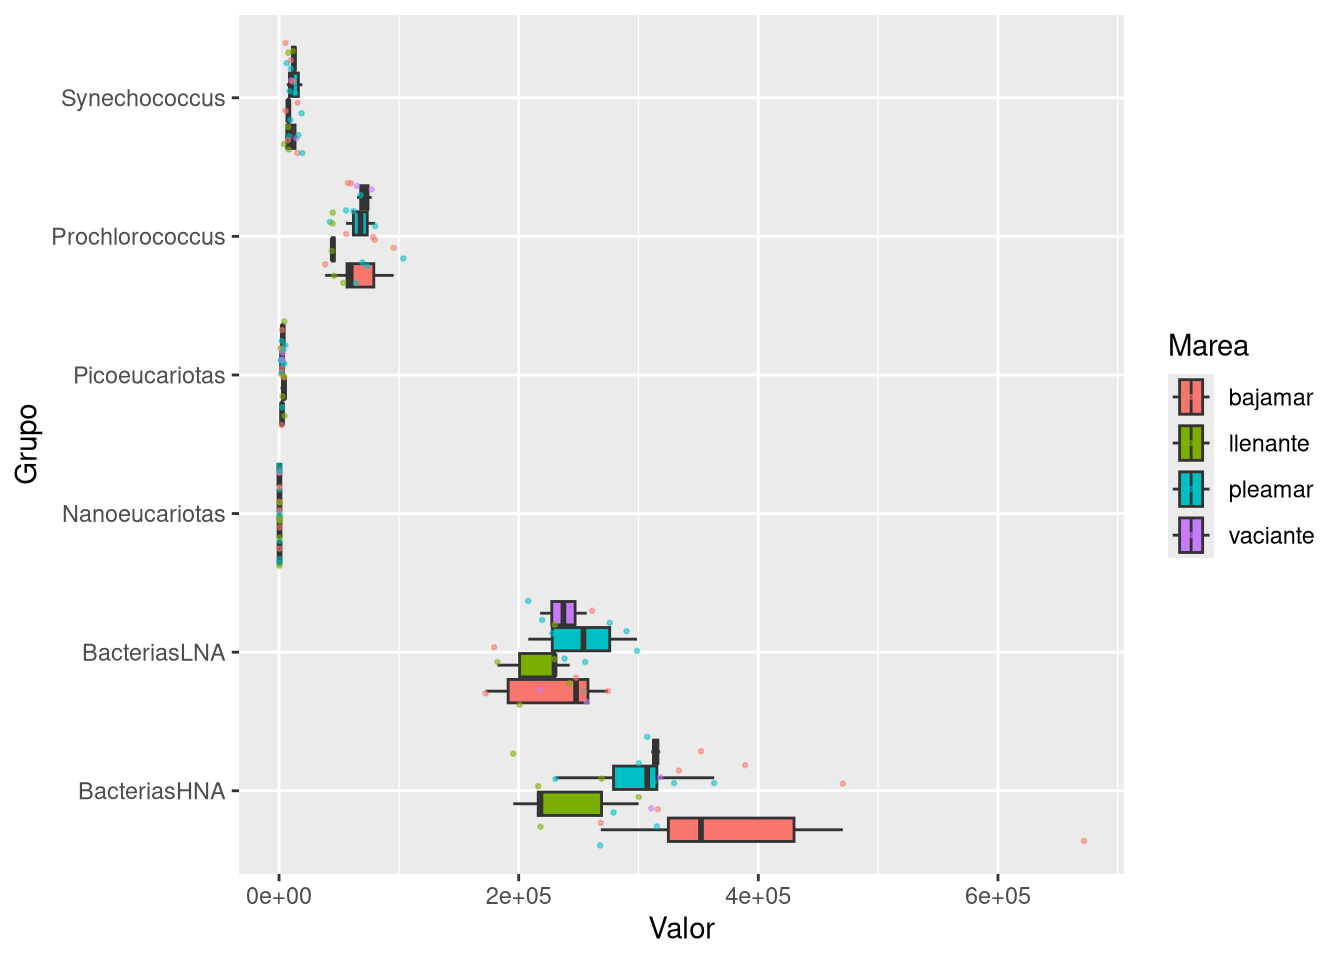
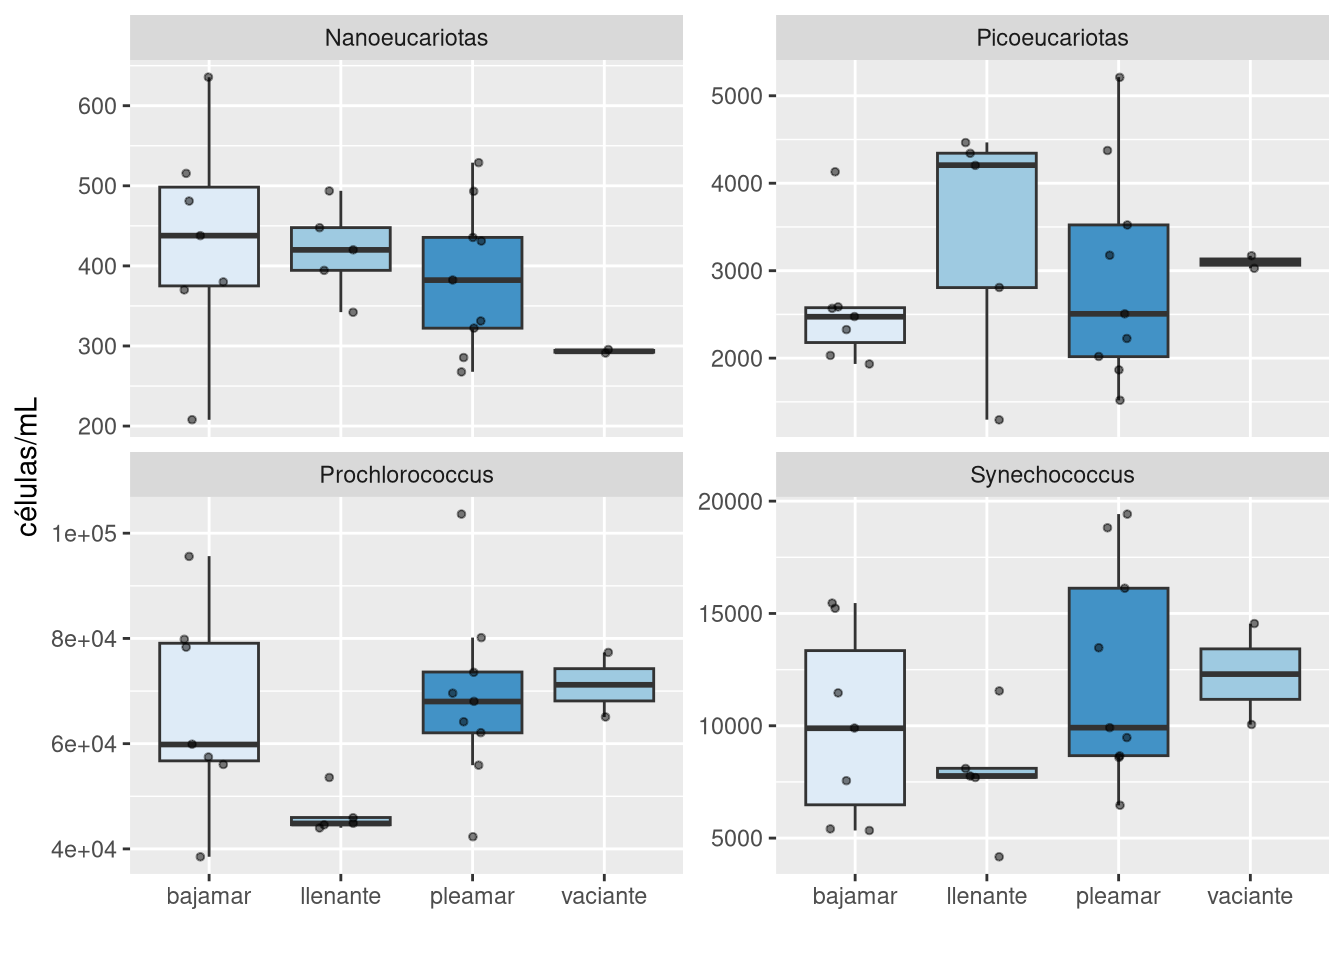
Añadido Vista general y Efecto de las mareas

diff --git a/docs/citometria.html b/docs/citometria.html
@@ -7,7 +7,7 @@
 <meta name="viewport" content="width=device-width, initial-scale=1.0, user-scalable=yes">
 
 
-<title>citometria – Calidad del agua en El Confital</title>
+<title>Citometría de flujo – Calidad del agua en El Confital</title>
 <style>
 code{white-space: pre-wrap;}
 span.smallcaps{font-variant: small-caps;}
@@ -20,7 +20,27 @@ ul.task-list li input[type="checkbox"] {
   margin: 0 0.8em 0.2em -1em; /* quarto-specific, see https://github.com/quarto-dev/quarto-cli/issues/4556 */ 
   vertical-align: middle;
 }
-</style>
+/* CSS for citations */
+div.csl-bib-body { }
+div.csl-entry {
+  clear: both;
+  margin-bottom: 0em;
+}
+.hanging-indent div.csl-entry {
+  margin-left:2em;
+  text-indent:-2em;
+}
+div.csl-left-margin {
+  min-width:2em;
+  float:left;
+}
+div.csl-right-inline {
+  margin-left:2em;
+  padding-left:1em;
+}
+div.csl-indent {
+  margin-left: 2em;
+}</style>
 
 
 <script src="site_libs/quarto-nav/quarto-nav.js"></script>
@@ -102,11 +122,11 @@ ul.task-list li input[type="checkbox"] {
     <ul class="dropdown-menu" aria-labelledby="nav-menu-resultados">    
         <li>
     <a class="dropdown-item" href="./indicadores.html">
- <span class="dropdown-text">Indicadores convencionales</span></a>
+ <span class="dropdown-text">Biondicadores convencionales</span></a>
   </li>  
         <li>
     <a class="dropdown-item" href="./citometria.html">
- <span class="dropdown-text">Citometría</span></a>
+ <span class="dropdown-text">Citometría de flujo</span></a>
   </li>  
     </ul>
   </li>
@@ -131,7 +151,7 @@ ul.task-list li input[type="checkbox"] {
       <button type="button" class="quarto-btn-toggle btn" data-bs-toggle="collapse" role="button" data-bs-target=".quarto-sidebar-collapse-item" aria-controls="quarto-sidebar" aria-expanded="false" aria-label="Alternar barra lateral" onclick="if (window.quartoToggleHeadroom) { window.quartoToggleHeadroom(); }">
         <i class="bi bi-layout-text-sidebar-reverse"></i>
       </button>
-        <nav class="quarto-page-breadcrumbs" aria-label="breadcrumb"><ol class="breadcrumb"><li class="breadcrumb-item"><a href="./citometria.html">Citometría</a></li></ol></nav>
+        <nav class="quarto-page-breadcrumbs" aria-label="breadcrumb"><ol class="breadcrumb"><li class="breadcrumb-item"><a href="./citometria.html">Citometría de flujo</a></li></ol></nav>
         <a class="flex-grow-1" role="navigation" data-bs-toggle="collapse" data-bs-target=".quarto-sidebar-collapse-item" aria-controls="quarto-sidebar" aria-expanded="false" aria-label="Alternar barra lateral" onclick="if (window.quartoToggleHeadroom) { window.quartoToggleHeadroom(); }">      
         </a>
     </div>
@@ -146,13 +166,13 @@ ul.task-list li input[type="checkbox"] {
         <li class="sidebar-item">
   <div class="sidebar-item-container"> 
   <a href="./indicadores.html" class="sidebar-item-text sidebar-link">
- <span class="menu-text">Indicadores convencionales</span></a>
+ <span class="menu-text">Biondicadores convencionales</span></a>
   </div>
 </li>
         <li class="sidebar-item">
   <div class="sidebar-item-container"> 
   <a href="./citometria.html" class="sidebar-item-text sidebar-link active">
- <span class="menu-text">Citometría</span></a>
+ <span class="menu-text">Citometría de flujo</span></a>
   </div>
 </li>
     </ul>
@@ -165,27 +185,43 @@ ul.task-list li input[type="checkbox"] {
     <h2 id="toc-title">En esta página</h2>
    
   <ul>
-  <li><a href="#citometría" id="toc-citometría" class="nav-link active" data-scroll-target="#citometría">Citometría</a></li>
+  <li><a href="#vista-general" id="toc-vista-general" class="nav-link active" data-scroll-target="#vista-general">Vista general</a></li>
+  <li><a href="#efecto-de-las-mareas" id="toc-efecto-de-las-mareas" class="nav-link" data-scroll-target="#efecto-de-las-mareas">Efecto de las mareas</a></li>
+  <li><a href="#comparativa-entre-el-confital-y-descarga-el-barranco-de-guanarteme" id="toc-comparativa-entre-el-confital-y-descarga-el-barranco-de-guanarteme" class="nav-link" data-scroll-target="#comparativa-entre-el-confital-y-descarga-el-barranco-de-guanarteme">Comparativa entre El Confital y descarga el Barranco de Guanarteme</a></li>
   </ul>
 </nav>
     </div>
 <!-- main -->
-<main class="content" id="quarto-document-content"><header id="title-block-header" class="quarto-title-block"></header>
+<main class="content" id="quarto-document-content">
 
-
-
-
-<section id="citometría" class="level1">
-<h1>Citometría</h1>
-<div class="cell">
-<div class="cell-output-display">
-<div>
-<figure class="figure">
-<p><img src="citometria_files/figure-html/visualize-1.png" class="img-fluid figure-img" width="672"></p>
-</figure>
+<header id="title-block-header" class="quarto-title-block default">
+<div class="quarto-title">
+<h1 class="title">Citometría de flujo</h1>
+<p class="subtitle lead">Concentración de microorganismos en el agua</p>
 </div>
-</div>
-</div>
+
+
+
+<div class="quarto-title-meta">
+
+    
+  
+    
+  </div>
+  
+
+
+</header>
+
+
+<section id="vista-general" class="level2">
+<h2 class="anchored" data-anchor-id="vista-general">Vista general</h2>
+<p>Monitoreamos 6 grupos de microorgansismos en base a 3 criterios funcionales:</p>
+<ul>
+<li><strong><em>Synechococcus</em></strong> y <strong><em>Prochlorococcus</em></strong>: son dos géneros de cianobacterias (anteriormente conocidas como algas verde-azuladas) identificadas en función de su pigmentación.</li>
+<li><strong>Nanoeucariotas</strong> y <strong>picoeucariotas</strong>: organismos diversos del dominio eucariota (células con núcleo verdadero) diferenciados en función de su tamaño, siendo <em>nano</em> más ancho que <em>pico</em>.</li>
+<li>Bacterias de <strong>alto ácido nucleico (HNA)</strong> y <strong>bajo ácido nucleico (LNA)</strong>: según el contenido de ácido nucleico en las células. En líneas generales, las bacterias HNA tiene un ritmo metabólico más acelerado que las HNA y son más adaptadas a entornos cambiantes. El ratio <strong>HNA/LNA</strong> se utiliza como indicador de alteraciones en el medio<span class="citation" data-cites="claveau2024"><sup><a href="#ref-claveau2024" role="doc-biblioref">1</a></sup></span>.</li>
+</ul>
 <div class="cell">
 <div class="cell-output-display">
 <div id="fig-distribucion" class="quarto-float quarto-figure quarto-figure-center anchored" width="672">
@@ -200,14 +236,18 @@ Figura&nbsp;1
 </div>
 </div>
 </div>
+<p>Observamos que la mayor variabilidad existe en función del contenido de ácido nucleico (<a href="#fig-distribucion" class="quarto-xref">Figura&nbsp;1</a>), seguido del grupo de <em>Prochlorococcus</em>. En las visualizaciones posteriores separaremos HNA y LNA del resto para una mejor resolución de las observaciones.</p>
+</section>
+<section id="efecto-de-las-mareas" class="level2">
+<h2 class="anchored" data-anchor-id="efecto-de-las-mareas">Efecto de las mareas</h2>
 <div class="cell">
 <div class="cell-output-display">
-<div id="fig-lugar" class="quarto-float quarto-figure quarto-figure-center anchored" width="672">
+<div id="fig-marea-bajos" class="quarto-float quarto-figure quarto-figure-center anchored" width="672">
 <figure class="quarto-float quarto-float-fig figure">
-<div aria-describedby="fig-lugar-caption-0ceaefa1-69ba-4598-a22c-09a6ac19f8ca">
-<img src="citometria_files/figure-html/fig-lugar-1.png" id="fig-lugar" class="img-fluid figure-img" width="672">
+<div aria-describedby="fig-marea-bajos-caption-0ceaefa1-69ba-4598-a22c-09a6ac19f8ca">
+<img src="citometria_files/figure-html/fig-marea-bajos-1.png" id="fig-marea-bajos" class="img-fluid figure-img" width="672">
 </div>
-<figcaption class="quarto-float-caption-bottom quarto-float-caption quarto-float-fig quarto-uncaptioned" id="fig-lugar-caption-0ceaefa1-69ba-4598-a22c-09a6ac19f8ca">
+<figcaption class="quarto-float-caption-bottom quarto-float-caption quarto-float-fig quarto-uncaptioned" id="fig-marea-bajos-caption-0ceaefa1-69ba-4598-a22c-09a6ac19f8ca">
 Figura&nbsp;2
 </figcaption>
 </figure>
@@ -216,13 +256,44 @@ Figura&nbsp;2
 </div>
 <div class="cell">
 <div class="cell-output-display">
-<div id="fig-marea" class="quarto-float quarto-figure quarto-figure-center anchored" width="672">
+<div id="fig-marea-altos" class="quarto-float quarto-figure quarto-figure-center anchored" width="672">
 <figure class="quarto-float quarto-float-fig figure">
-<div aria-describedby="fig-marea-caption-0ceaefa1-69ba-4598-a22c-09a6ac19f8ca">
-<img src="citometria_files/figure-html/fig-marea-1.png" id="fig-marea" class="img-fluid figure-img" width="672">
+<div aria-describedby="fig-marea-altos-caption-0ceaefa1-69ba-4598-a22c-09a6ac19f8ca">
+<img src="citometria_files/figure-html/fig-marea-altos-1.png" id="fig-marea-altos" class="img-fluid figure-img" width="672">
 </div>
-<figcaption class="quarto-float-caption-bottom quarto-float-caption quarto-float-fig quarto-uncaptioned" id="fig-marea-caption-0ceaefa1-69ba-4598-a22c-09a6ac19f8ca">
+<figcaption class="quarto-float-caption-bottom quarto-float-caption quarto-float-fig quarto-uncaptioned" id="fig-marea-altos-caption-0ceaefa1-69ba-4598-a22c-09a6ac19f8ca">
 Figura&nbsp;3
+</figcaption>
+</figure>
+</div>
+</div>
+</div>
+<div class="cell">
+<div class="cell-output-display">
+<div id="fig-marea-ratio" class="quarto-float quarto-figure quarto-figure-center anchored" width="672">
+<figure class="quarto-float quarto-float-fig figure">
+<div aria-describedby="fig-marea-ratio-caption-0ceaefa1-69ba-4598-a22c-09a6ac19f8ca">
+<img src="citometria_files/figure-html/fig-marea-ratio-1.png" id="fig-marea-ratio" class="img-fluid figure-img" width="672">
+</div>
+<figcaption class="quarto-float-caption-bottom quarto-float-caption quarto-float-fig quarto-uncaptioned" id="fig-marea-ratio-caption-0ceaefa1-69ba-4598-a22c-09a6ac19f8ca">
+Figura&nbsp;4
+</figcaption>
+</figure>
+</div>
+</div>
+</div>
+</section>
+<section id="comparativa-entre-el-confital-y-descarga-el-barranco-de-guanarteme" class="level1">
+<h1>Comparativa entre El Confital y descarga el Barranco de Guanarteme</h1>
+<div class="cell">
+<div class="cell-output-display">
+<div id="fig-lugar" class="quarto-float quarto-figure quarto-figure-center anchored" width="672">
+<figure class="quarto-float quarto-float-fig figure">
+<div aria-describedby="fig-lugar-caption-0ceaefa1-69ba-4598-a22c-09a6ac19f8ca">
+<img src="citometria_files/figure-html/fig-lugar-1.png" id="fig-lugar" class="img-fluid figure-img" width="672">
+</div>
+<figcaption class="quarto-float-caption-bottom quarto-float-caption quarto-float-fig quarto-uncaptioned" id="fig-lugar-caption-0ceaefa1-69ba-4598-a22c-09a6ac19f8ca">
+Figura&nbsp;5
 </figcaption>
 </figure>
 </div>
@@ -230,9 +301,14 @@ Figura&nbsp;3
 </div>
 
 
+
 </section>
 
-</main> <!-- /main -->
+<div id="quarto-appendix" class="default"><section class="quarto-appendix-contents" role="doc-bibliography" id="quarto-bibliography"><h2 class="anchored quarto-appendix-heading">Referencias</h2><div id="refs" class="references csl-bib-body" data-entry-spacing="0" data-line-spacing="2" role="list">
+<div id="ref-claveau2024" class="csl-entry" role="listitem">
+<div class="csl-left-margin">1. </div><div class="csl-right-inline">Claveau, L., Hudson, N., Jeffrey, P., &amp; Hassard, F. (2024). Assessing microbial growth in drinking water using nucleic acid content and flow cytometry fingerprinting. <em>iScience</em>, <em>27</em>(12), 111511. <a href="https://doi.org/10.1016/j.isci.2024.111511">https://doi.org/10.1016/j.isci.2024.111511</a></div>
+</div>
+</div></section></div></main> <!-- /main -->
 <script id="quarto-html-after-body" type="application/javascript">
   window.document.addEventListener("DOMContentLoaded", function (event) {
     const icon = "";

diff --git a/docs/indicadores.html b/docs/indicadores.html
@@ -7,7 +7,7 @@
 <meta name="viewport" content="width=device-width, initial-scale=1.0, user-scalable=yes">
 
 
-<title>Indicadores convencionales – Calidad del agua en El Confital</title>
+<title>Biondicadores convencionales – Calidad del agua en El Confital</title>
 <style>
 code{white-space: pre-wrap;}
 span.smallcaps{font-variant: small-caps;}
@@ -102,11 +102,11 @@ ul.task-list li input[type="checkbox"] {
     <ul class="dropdown-menu" aria-labelledby="nav-menu-resultados">    
         <li>
     <a class="dropdown-item" href="./indicadores.html">
- <span class="dropdown-text">Indicadores convencionales</span></a>
+ <span class="dropdown-text">Biondicadores convencionales</span></a>
   </li>  
         <li>
     <a class="dropdown-item" href="./citometria.html">
- <span class="dropdown-text">Citometría</span></a>
+ <span class="dropdown-text">Citometría de flujo</span></a>
   </li>  
     </ul>
   </li>
@@ -131,7 +131,7 @@ ul.task-list li input[type="checkbox"] {
       <button type="button" class="quarto-btn-toggle btn" data-bs-toggle="collapse" role="button" data-bs-target=".quarto-sidebar-collapse-item" aria-controls="quarto-sidebar" aria-expanded="false" aria-label="Alternar barra lateral" onclick="if (window.quartoToggleHeadroom) { window.quartoToggleHeadroom(); }">
         <i class="bi bi-layout-text-sidebar-reverse"></i>
       </button>
-        <nav class="quarto-page-breadcrumbs" aria-label="breadcrumb"><ol class="breadcrumb"><li class="breadcrumb-item"><a href="./indicadores.html">Indicadores convencionales</a></li></ol></nav>
+        <nav class="quarto-page-breadcrumbs" aria-label="breadcrumb"><ol class="breadcrumb"><li class="breadcrumb-item"><a href="./indicadores.html">Biondicadores convencionales</a></li></ol></nav>
         <a class="flex-grow-1" role="navigation" data-bs-toggle="collapse" data-bs-target=".quarto-sidebar-collapse-item" aria-controls="quarto-sidebar" aria-expanded="false" aria-label="Alternar barra lateral" onclick="if (window.quartoToggleHeadroom) { window.quartoToggleHeadroom(); }">      
         </a>
     </div>
@@ -146,13 +146,13 @@ ul.task-list li input[type="checkbox"] {
         <li class="sidebar-item">
   <div class="sidebar-item-container"> 
   <a href="./indicadores.html" class="sidebar-item-text sidebar-link active">
- <span class="menu-text">Indicadores convencionales</span></a>
+ <span class="menu-text">Biondicadores convencionales</span></a>
   </div>
 </li>
         <li class="sidebar-item">
   <div class="sidebar-item-container"> 
   <a href="./citometria.html" class="sidebar-item-text sidebar-link">
- <span class="menu-text">Citometría</span></a>
+ <span class="menu-text">Citometría de flujo</span></a>
   </div>
 </li>
     </ul>
@@ -176,7 +176,7 @@ ul.task-list li input[type="checkbox"] {
 
 <header id="title-block-header" class="quarto-title-block default">
 <div class="quarto-title">
-<h1 class="title">Indicadores convencionales</h1>
+<h1 class="title">Biondicadores convencionales</h1>
 <p class="subtitle lead"><em>E. coli</em> y enterococos intestinales (EEII)</p>
 </div>
 

diff --git a/docs/about.html b/docs/about.html
@@ -101,11 +101,11 @@ ul.task-list li input[type="checkbox"] {
     <ul class="dropdown-menu" aria-labelledby="nav-menu-resultados">    
         <li>
     <a class="dropdown-item" href="./indicadores.html">
- <span class="dropdown-text">Indicadores convencionales</span></a>
+ <span class="dropdown-text">Biondicadores convencionales</span></a>
   </li>  
         <li>
     <a class="dropdown-item" href="./citometria.html">
- <span class="dropdown-text">Citometría</span></a>
+ <span class="dropdown-text">Citometría de flujo</span></a>
   </li>  
     </ul>
   </li>

diff --git a/docs/index.html b/docs/index.html
@@ -122,11 +122,11 @@ div.csl-indent {
     <ul class="dropdown-menu" aria-labelledby="nav-menu-resultados">    
         <li>
     <a class="dropdown-item" href="./indicadores.html">
- <span class="dropdown-text">Indicadores convencionales</span></a>
+ <span class="dropdown-text">Biondicadores convencionales</span></a>
   </li>  
         <li>
     <a class="dropdown-item" href="./citometria.html">
- <span class="dropdown-text">Citometría</span></a>
+ <span class="dropdown-text">Citometría de flujo</span></a>
   </li>  
     </ul>
   </li>
